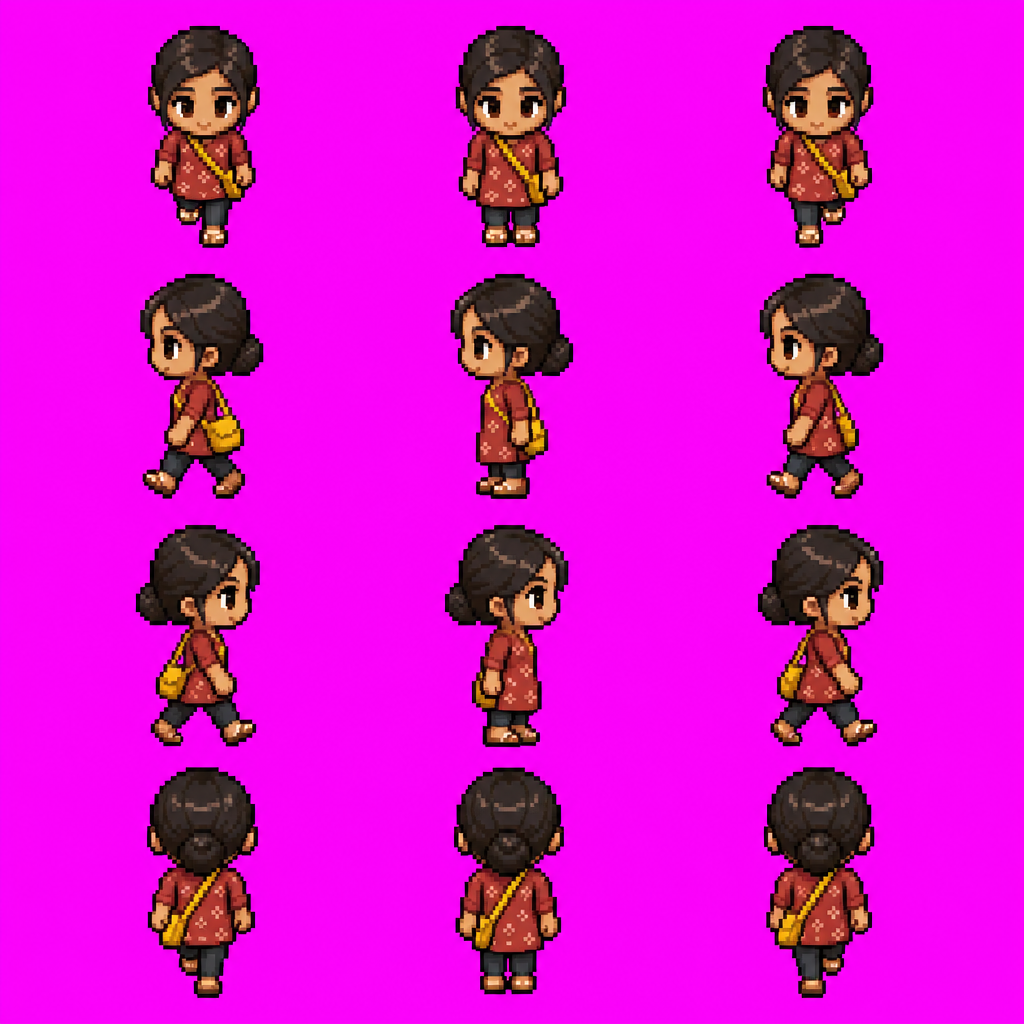
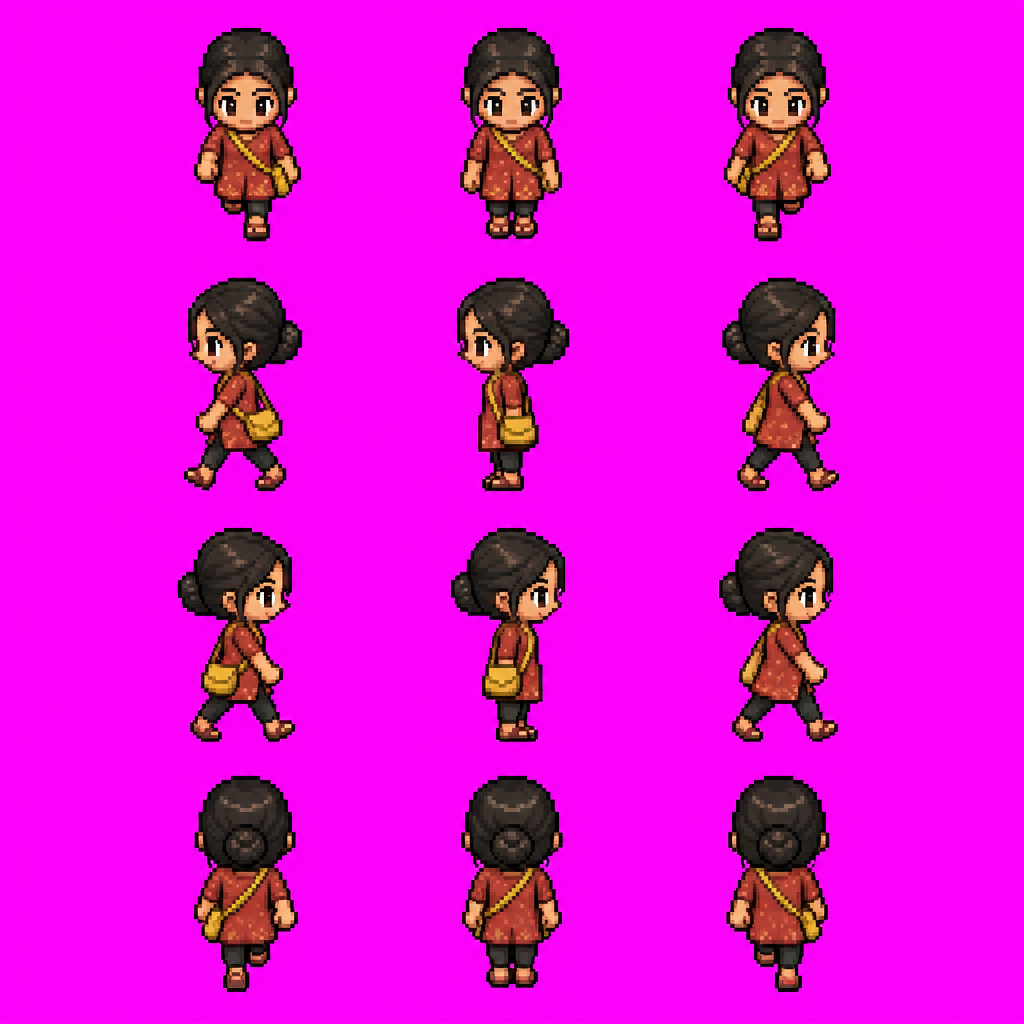
P2 round 3: 3-frame sheet contract, alternating side strides, shadow trim
Audit: one idle per row is enough, and side-view legs must swap. Sheets are
now 96x192 [stride, idle, opposite stride]; BootScene plays 0,1,2,1. Both
bases rerolled with the prompt naming which leg is forward in every cell.
The importer measures the two strides and would synthesise the opposite one
by mirroring the leg band if they came back identical; it also strips the
generator's drop shadows (attached mid-grey rows and detached near-black
blobs, hue-based magenta keying) so every figure scales from its real
height — the male no longer renders smaller than the female.

ADR-86; prompt template updated; 162 tests, 18 sheets on palette.

Changed region(s): [[0.125, 0.0, 0.3125, 1.0], [0.6875, 0.0, 0.875, 1.0], [0.4375, 0.0312, 0.5625, 0.9688]]

diff --git a/src/scenes/BootScene.ts b/src/scenes/BootScene.ts
@@ -46,7 +46,7 @@ export class BootScene extends Phaser.Scene {
       console.error(`[BootScene] failed to load "${file.key}" from ${file.url}`);
     });
 
-    // Every character sheet: 128×192 = 4 columns × 4 rows of 32×48 frames.
+    // Every character sheet: 96×192 = 3 columns × 4 rows of 32×48 frames.
     for (const [key, url] of Object.entries(SPRITE_URLS)) {
       this.load.spritesheet(key, url, {
         frameWidth: SPRITE_WIDTH,
@@ -187,9 +187,10 @@ export class BootScene extends Phaser.Scene {
   /**
    * Walk and idle animations for every loaded character sheet.
    *
-   * Rows: 0 = down (frames 0-3), 1 = left (4-7), 2 = right (8-11), 3 = up
-   * (12-15). Each row runs [stride, idle, opposite stride, idle], so the
-   * middle frame doubles as that direction's idle pose.
+   * Rows: 0 = down (frames 0-2), 1 = left (3-5), 2 = right (6-8), 3 = up
+   * (9-11). Each row holds [stride, idle, opposite stride] — one idle per
+   * row, never duplicated (AUDIT_LOG P2 round 2); the walk cycle returns
+   * through the idle frame by playing 0,1,2,1.
    *
    * Keys are `<sheet>-walk-<dir>` and `<sheet>-idle-<dir>`, which is what
    * Player and the ambient citizens look up — so a new sheet is animated
@@ -198,9 +199,9 @@ export class BootScene extends Phaser.Scene {
   private createCharacterAnimations(): void {
     const rows: Array<{ dir: string; start: number }> = [
       { dir: 'down', start: 0 },
-      { dir: 'left', start: 4 },
-      { dir: 'right', start: 8 },
-      { dir: 'up', start: 12 },
+      { dir: 'left', start: 3 },
+      { dir: 'right', start: 6 },
+      { dir: 'up', start: 9 },
     ];
 
     for (const sheet of Object.keys(SPRITE_URLS)) {
@@ -211,7 +212,7 @@ export class BootScene extends Phaser.Scene {
         if (!this.anims.exists(walkKey)) {
           this.anims.create({
             key: walkKey,
-            frames: this.anims.generateFrameNumbers(sheet, { start, end: start + 3 }),
+            frames: [start, start + 1, start + 2, start + 1].map((frame) => ({ key: sheet, frame })),
             frameRate: 8,
             repeat: -1,
           });

diff --git a/src/assets/_raw/characters/prompt-template.md b/src/assets/_raw/characters/prompt-template.md
@@ -4,11 +4,11 @@
 >
 > The character: **<description — age, skin, hair, attire, bag>**.
 >
-> Layout: a strict 3-column × 4-row grid of 12 equally sized cells on a flat solid magenta background (#FF00FF). Each cell contains exactly one full-body pose, centred, feet on the same baseline, no shadow.
-> Row 1: facing DOWN toward the viewer — left foot forward step, standing idle, right foot forward step.
-> Row 2: facing LEFT (profile) — step, idle, step.
-> Row 3: facing RIGHT (profile) — step, idle, step.
-> Row 4: facing UP, back to the viewer **<what shows from behind>** — step, idle, step.
+> Layout: a strict 3-column × 4-row grid of 12 equally sized cells on a flat solid magenta background (#FF00FF). Each cell contains exactly one full-body pose, centred, feet on the same baseline, no shadow. The three cells of a row are the three key frames of ONE walk cycle and must be clearly different from each other:
+> Row 1, facing DOWN toward the viewer: cell 1 = character's LEFT leg stepped forward and right arm swung forward; cell 2 = standing still, feet together; cell 3 = character's RIGHT leg stepped forward and left arm swung forward (the mirror of cell 1).
+> Row 2, facing LEFT in profile, walking to the left: cell 1 = the leg NEARER the viewer stretched forward and the far leg trailing behind; cell 2 = standing still in profile, legs together; cell 3 = the FAR leg stretched forward and the near leg trailing behind — the legs have swapped compared with cell 1, so the stride is visibly different.
+> Row 3, facing RIGHT in profile, walking to the right: the same three frames as row 2 but facing right.
+> Row 4, facing UP, back to the viewer **<what shows from behind>**: cell 1 = left leg forward; cell 2 = standing still; cell 3 = right leg forward.
 > The same character at the same size in every cell. No text, no labels, no grid lines, no borders, no watermark, nothing else in the image.
 
-Rules that made it work: name real games for the register, say "strict 3×4 grid" and "same size in every cell", put the background colour in hex, and describe what the back view must show so row 4 is not a guess.
+Rules that made it work: spell out which leg is forward in every cell (otherwise both strides come back identical); name real games for the register, say "strict 3×4 grid" and "same size in every cell", put the background colour in hex, and describe what the back view must show so row 4 is not a guess.

diff --git a/ARCHITECTURE.md b/ARCHITECTURE.md
@@ -42,10 +42,10 @@ scripts/           validate-*.{mjs,ts} · generate-art.mjs · generate-street-ma
 ```
 
 ## Profile & sprites (P2)
-`PlayerProfile` (`src/utils/types.ts`) + pure helpers in `src/utils/profile.ts` (`validateProfile`, `sheetForProfile`, `ALL_PLAYER_SHEETS`, states/degrees). Sheet key = `player_<m|f>_<skin>`; `pnpm art` imports `src/assets/_raw/characters/player_{m,f}.png` (generated 3×4 sheets) through `scripts/import-sheet.mjs` into 10 on-palette 4×4 sheets, and still draws the 8 citizen looks with `scripts/art/character.mjs` (to be replaced, T-022). Save 1.3.0 persists `player.profile`; older saves migrate name/homeState into a default profile.
+`PlayerProfile` (`src/utils/types.ts`) + pure helpers in `src/utils/profile.ts` (`validateProfile`, `sheetForProfile`, `ALL_PLAYER_SHEETS`, states/degrees). Sheet key = `player_<m|f>_<skin>`; `pnpm art` imports `src/assets/_raw/characters/player_{m,f}.png` (generated 3×4 sheets) through `scripts/import-sheet.mjs` into 10 on-palette 3×4 sheets (96×192, [stride, idle, opposite]), and still draws the 8 citizen looks with `scripts/art/character.mjs` (to be replaced, T-022). Save 1.3.0 persists `player.profile`; older saves migrate name/homeState into a default profile.
 
 ## Design tokens
-`src/assets/_meta/palette.gpl` (48 colours, P1 lock) + `scripts/art/tokens.mjs` → generated `_meta/tokens.json` → `src/ui/tokens.ts` (`hex`, `color`, `PALETTE`, `GRID`=8). Scenes use tokens, never raw hex. `validate-maps` fails any sprite sheet off-palette or not 128×192; tilesets warn until T-021.
+`src/assets/_meta/palette.gpl` (48 colours, P1 lock) + `scripts/art/tokens.mjs` → generated `_meta/tokens.json` → `src/ui/tokens.ts` (`hex`, `color`, `PALETTE`, `GRID`=8). Scenes use tokens, never raw hex. `validate-maps` fails any sprite sheet off-palette or not 96×192; tilesets warn until T-021.
 
 ## Platform (`src/platform/`, ADR-64)
 `Platform.ts` = the interface (storage, saves, lifecycle, haptics, display, network, share, audio). `web.ts` implements it for browsers; `native.ts` spreads `web.ts` and overrides nothing yet (molecules arrive with their phases). `index.ts` picks one at boot via `Capacitor.isNativePlatform()`. Game code imports `{ platform }` from `src/platform` and nothing else — `scripts/validate-platform.mjs` fails the build otherwise. Used today: `platform.audio.unlock()` on the Title confirm (rule 8).

diff --git a/DECISIONS.md b/DECISIONS.md
@@ -25,3 +25,4 @@ ADR-01..64 live in `docs/design/bangalore_rpg_design_decisions_v1.md` (the "why"
 | ADR-83 | 2026-10-12 | Text entry in Phaser forms goes through one hidden DOM `<input>` (focused when a text row is active) so phones get their on-screen keyboard; navigation stays on Phaser keys/taps | Mobile foundation §6 P1–P2 gate: "form usable with on-screen keyboard on phone"; Phaser has no native text input | Phaser DOM plugin (needs `dom.createContainer`, heavier); desktop-only keystrokes |
 | ADR-84 | 2026-10-12 | **Supersedes ADR-81.** Player sprites are generated in the reference style (Figma AI, same model as the style lock, prompt template in `src/assets/_raw/characters/prompt-template.md`) and imported by `scripts/import-sheet.mjs`: chroma-key → 3×4 cell split → bottom-align to the 32×48 baseline → quantise to `palette.gpl` → pack 4×4 → remap skin onto the five `c.skin` ramps. Raws live in `src/assets/_raw/characters/` and `pnpm art` reproduces the sheets from them. The code rig (`character.mjs`) is demoted to citizens/placeholders until they go through the same pipeline (T-022) | P2 audit: the rig was "not at all like the screenshots". The import pipeline is what art_pipeline §5 always specified; one generation yields all five tones | Keeping the rig; hand-pixelling |
 | ADR-85 | 2026-10-12 | Amends ADR-80: sprite = gender × skin only (`player_<m|f>_<1..5>`); age-band bag/attire variants are deferred to attire layers (T-022). Age still drives dialogue flavour | One raw per base; attire layers need a compositing step the pipeline does not have yet | 20 raws (10 credits per base) |
+| ADR-86 | 2026-10-12 | Character sheet contract is **3 columns × 4 rows (96×192)**: `[stride, idle, opposite stride]` per direction; BootScene plays the walk as frames 0,1,2,1. The importer verifies the two strides differ (≥12% of pixels) and otherwise synthesises the opposite stride by mirroring the leg band; it also strips generator drop-shadows (attached mid-grey rows and detached achromatic blobs) so every figure is scaled from its real height | P2 round-2 audit: no duplicated idle, and side-view legs must swap | 4×4 with a repeated idle (previous contract) |

diff --git a/src/assets/_raw/characters/README.md b/src/assets/_raw/characters/README.md
@@ -3,12 +3,12 @@
 Each `<name>.png` is a generated 3-column × 4-row sheet on flat magenta, rows
 down / left / right / up, columns [step, idle, step]. `pnpm art` runs
 `scripts/import-sheet.mjs` on every file here and writes
-`src/assets/sprites/<name>_1..5.png` (128×192, four directions × four frames,
+`src/assets/sprites/<name>_1..5.png` (96×192, four directions × [stride, idle, opposite stride],
 skin remapped onto the five `c.skin` ramps, every pixel on `palette.gpl`).
 
 | Raw | Generated with | Date | Prompt |
 | --- | --- | --- | --- |
-| `player_m.png` | Figma AI `generate_image`, gpt-image-2.5-sunburst, 1024×1024, user's personal plan | 2026-10-12 | see `prompt-template.md` + "young Indian man, early twenties, wheatish skin, short neat black hair, light-blue formal shirt tucked into grey trousers, black shoes, a small dark backpack, fresh-graduate look" |
-| `player_f.png` | same | 2026-10-12 | template + "young Indian woman, early twenties, wheatish skin, dark hair in a low bun, knee-length rust-red kurti with a small print, dark leggings, flat sandals, a mustard sling bag across her body" |
+| `player_m.png` (reroll 2, strides named per cell) | Figma AI `generate_image`, gpt-image-2.5-sunburst, 1024×1024, user's personal plan | 2026-10-12 | see `prompt-template.md` + "young Indian man, early twenties, wheatish skin, short neat black hair, light-blue formal shirt tucked into grey trousers, black shoes, a small dark backpack, fresh-graduate look" |
+| `player_f.png` (reroll 2, strides named per cell) | same | 2026-10-12 | template + "young Indian woman, early twenties, wheatish skin, dark hair in a low bun, knee-length rust-red kurti with a small print, dark leggings, flat sandals, a mustard sling bag across her body" |
 
 Re-generating a character = new raw here (max 3 rerolls, art_pipeline §4), then `pnpm art`.

diff --git a/AUDIT_LOG.md b/AUDIT_LOG.md
@@ -32,3 +32,8 @@ Updated: 2026-10-12
 - Correction: the code-drawn rig v2 sprites "are not at all like the screenshots" — the references have rounded heads, large eyes with whites and irises, hair with strands and highlights, 2–3 shade tones per material, soft coloured outlines. A rectangle rig cannot reach that.
 - Rule going forward: character and prop art is **generated in the reference style and imported** through the pipeline (art_pipeline_v1 §4–5: chroma-key → grid-snap → bottom-align → quantise to `palette.gpl` → pack), never drawn as rectangles in code. The procedural generator is for ground tiles and placeholders only.
 - Rule going forward: before showing any sprite to the user, put it side by side with the reference at the same zoom and ask "would this sit in the reference sheet?" — if not, don't ship it to the audit.
+
+### [P2 Character creation — round 2] — 2026-10-12
+- Correction: "better than the previous sprites", but (1) the standing pose appears twice per row — one is enough; (2) in the side views the walk frames do not swap legs: the same leg stays in front, so the stride never visibly changes.
+- Rule going forward: sheet contract is **3 frames per row — [stride, idle, opposite stride]** (96×192). The animation plays 0,1,2,1; the sheet never stores a duplicate frame. Matches the user's reference sheets.
+- Rule going forward: a walk cycle's two stride frames must be visibly different; in profile the near and far leg must swap. The import pipeline measures the two strides per row and, if they are near-identical, synthesises the opposite stride (mirror the leg band about the hips) rather than shipping a stride that does not alternate. Generation prompts spell out which leg is forward in each cell.

diff --git a/TASKS.md b/TASKS.md
@@ -10,7 +10,7 @@ Task ids `T-###`, never reused. One line each; detail lives in `docs/design/`.
 
 ## Next
 
-- [ ] T-006 P2 Character creation form → `player.profile` + M/F × 5 skins sprites (generated + imported, ADR-84) + walk preview — **round 2, awaiting P2 audit**
+- [ ] T-006 P2 Character creation form → `player.profile` + M/F × 5 skins sprites (generated + imported, ADR-84; 3-frame contract ADR-86) + walk preview — **round 3, awaiting P2 audit**
 - [ ] T-007 P2 Stat model per profile doc §2 (health/wallet ₹35,000 ADR-17/social/stamina/food/stress/battery) + `spend()`/`canAfford()` wired; retune tests
 - [ ] T-008 P3 M0 minimal loop: airport → chai Anna (interact/dialogue/UPI spend) → Vayu Vajra stop → bus transit card → whitefield_street
 

diff --git a/docs/asset-pipeline.md b/docs/asset-pipeline.md
@@ -44,9 +44,9 @@ rigid enough to generate, and changing one invalidates every generated asset.
 | --- | --- |
 | Tile size | **32 px**, everywhere, no exceptions |
 | Character frame | **32 x 48 px**, feet at y=42, bottom-aligned |
-| Character sheet | 4 columns x 4 rows = 128 x 192 |
+| Character sheet | 3 columns x 4 rows = 96 x 192 |
 | Row order | 0 down, 1 left, 2 right, 3 up |
-| Frame order per row | stride, idle, opposite stride, idle |
+| Frame order per row | stride, idle, opposite stride (walk plays 0,1,2,1) |
 | Animation keys | `<sheet>-walk-<dir>`, `<sheet>-idle-<dir>` |
 | Tileset sheet | 8 columns, tile id = index, **append only** |
 | Map layers | Ground, Walls, Objects, Collision, Above Player, Effects, Foreground |

diff --git a/TECH_STACK.md b/TECH_STACK.md
@@ -248,7 +248,7 @@ shimmer. The generated art is what the renderer is actually configured for.
 
 ### Adding a character
 
-Drop a 128x192 sheet (4x4 grid of 32x48 frames, rows down/left/right/up) into
+Drop a 96x192 sheet (3 columns x 4 rows of 32x48 frames, rows down/left/right/up) into
 `src/assets/sprites/`. BootScene discovers it and registers
 `<name>-walk-<dir>` and `<name>-idle-<dir>` automatically; `Player` and the
 ambient citizens take a sheet name, so nothing else changes. The three citizen
